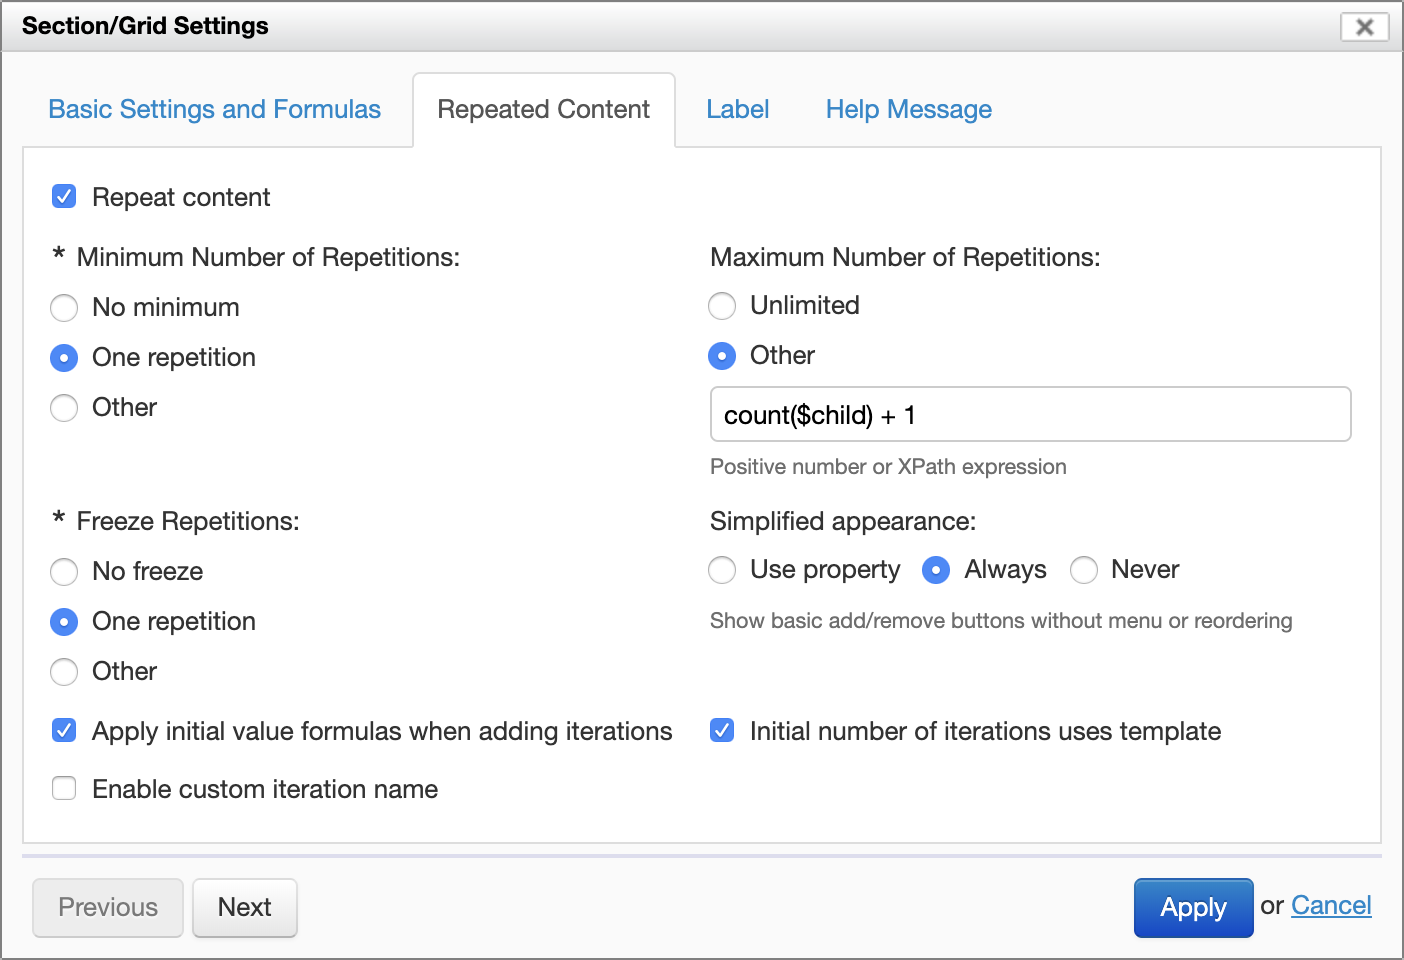
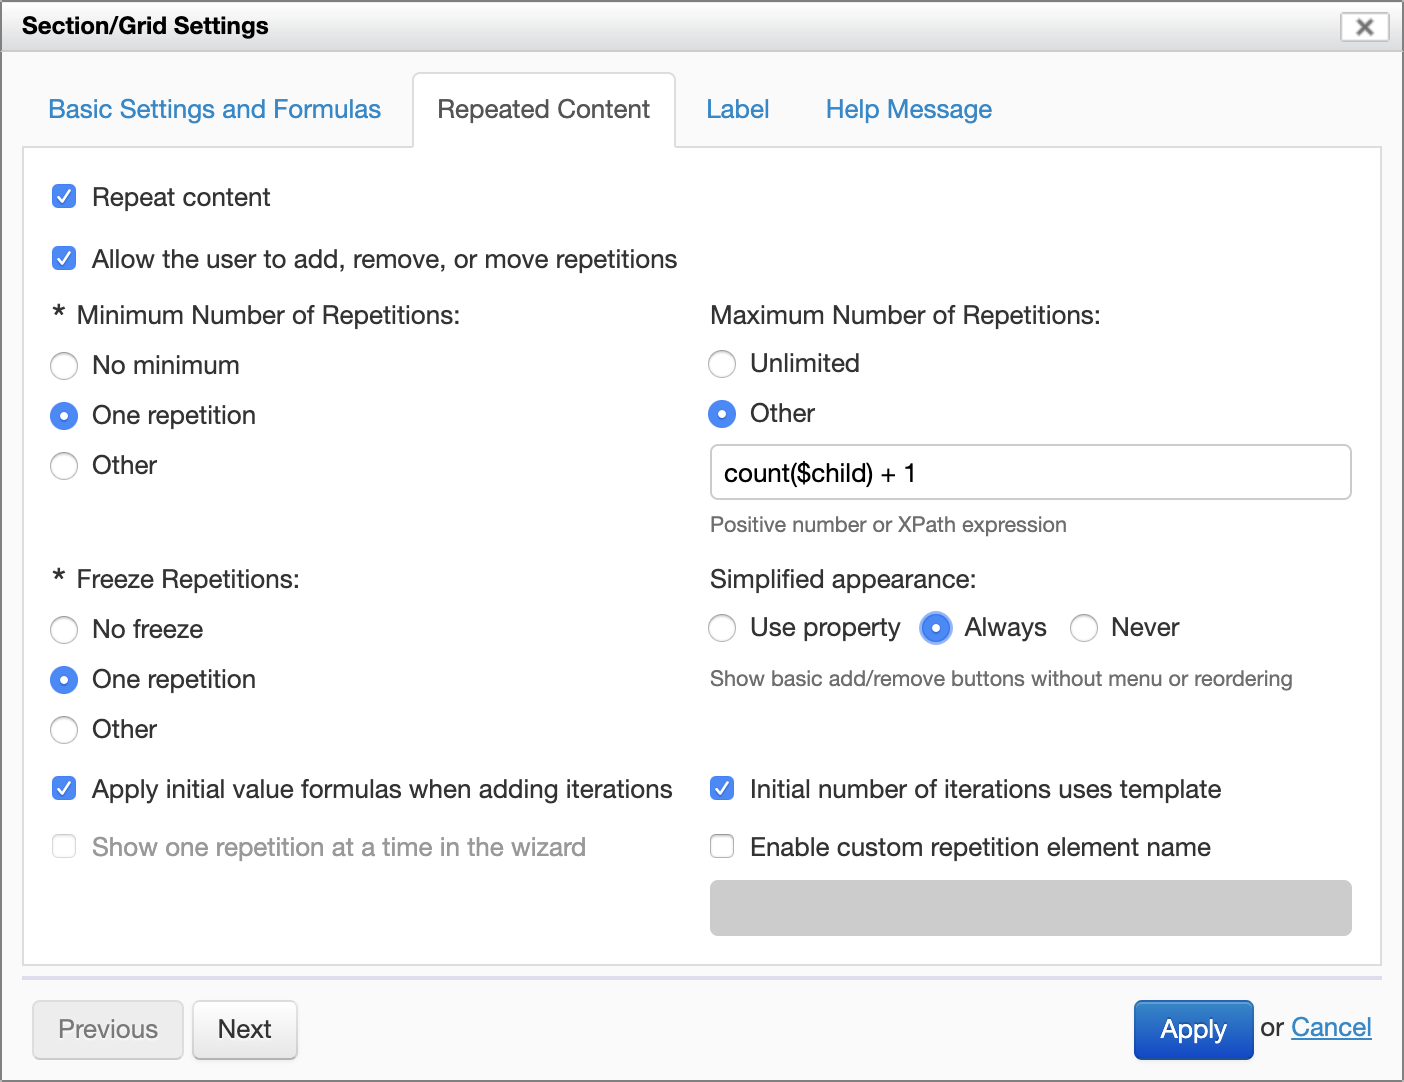
New repeat settings

diff --git a/form-builder/repeat-settings.md b/form-builder/repeat-settings.md
@@ -15,6 +15,14 @@ Both repeated grids and repeated sections have *repeat settings* in the "Section
 
 Select this checkbox to enable repeated content.
 
+## Allow the user to add, remove, or move repetitions
+
+[SINCE Orbeon Forms 2019.1]
+
+Select the "Allow the user to add, remove, or move repetitions" checkbox to allow this behavior. When the checkbox is deselected, the user does not have direct access to buttons, icons or menus to change repetitions.
+
+When this option is deselected, the minimum, maximum and frozen repetitions settings do not apply.
+
 ## Minimum and maximum number of iterations
 
 These settings can be predefined numbers or formulas when selecting "Other".
@@ -91,12 +99,21 @@ Example:
 ![Initial Iterations](images/)
 -->
 
+## Show one repetition at a time in the wizard
+
+[SINCE Orbeon Forms 2019.1]
+
+This option can be selected only when the "Allow the user to add, remove, or move repetitions" option is deselected.
+
+For details, see [Paging large repeated sections](/form-runner/feature/wizard-view.md#paging-large-repeated-sections).
+
 ## See also
 
 - [Repeated grids](repeated-grids.md)
 - [Section settings](section-settings.md)
 - [Grid component](/form-runner/component/grid.md)
 - [Section component](/form-runner/component/section.md)
+- [Paging large repeated sections](/form-runner/feature/wizard-view.md#paging-large-repeated-sections)
 - Support for repeats lands in Form Builder: [older blog post](https://blog.orbeon.com/2012/04/support-for-repeats-lands-in-form.html)
 - Inserting and reordering grid rows: [blog post](https://blog.orbeon.com/2013/11/inserting-and-reordering-grid-rows.html)
 - Repeated sections: [blog post](https://blog.orbeon.com/2014/01/repeated-sections.html)

diff --git a/form-runner/feature/wizard-view.md b/form-runner/feature/wizard-view.md
@@ -1,7 +1,5 @@
 # Wizard view
 
-
-
 ## Introduction
 
 By default with Form Runner all the form sections appear in the same page, on top of each other. If your form is large that means that you have to scroll to fill out the entire form.
@@ -287,6 +285,22 @@ When `none`:
 
 <!-- TODO: screenshot -->
 
+## Paging large repeated sections
+
+By default, top-level repeated sections appear as a single entry in the table of contents. The section's repeated content appears within the section, each repetition on top of the other, as is the case when the wizard is not used.
+
+[SINCE Orbeon Forms 2019.1]
+
+It is now possible to make each iteration of a top-level repeated section that is the target of [synchronized repeated content](/form-builder/synchronize-repeated-content.md) appear as a separate entry in the table of contents. The benefit of this is that, if the repeated section content is large, then less content appears on screen at the same time. This is better for usability and for performance. 
+
+To enable this, got to the relevant section settings, and:
+
+- Uncheck "Allow the user to add, remove, or move repetitions"
+- Check "Show one iteration at a time in the wizard"
+
+
+
+<!-- TODO: screenshot -->
 
 ## See also
 
